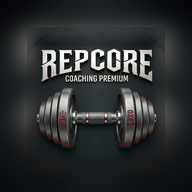
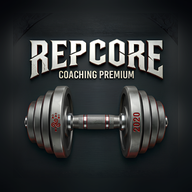
fix(pwa): icone launcher agrandie au maximum de la zone sure
- Contenu passe de 72% a 86% (maskable) / 92% (any) : REPCORE et
  l'haltere remplissent l'icone, calcules pour frotter la limite du
  masque cercle sans jamais etre rognes
- Bump cache SW v301

Changed region(s): [[0.0938, 0.125, 0.9062, 0.8125], [0.375, 0.125, 0.4062, 0.1562]]

diff --git a/sw.js b/sw.js
@@ -1,4 +1,4 @@
-const CACHE = 'repcore-v300';
+const CACHE = 'repcore-v301';
 const SW_DATA = 'repcore-sw-data'; // persistent across updates — not wiped by activate
 const ASSETS = ['./manifest.json', './icons/icon-192x192.png', './icons/icon-512x512.png', './icons/logo.png', './data/ciqual.json'];
 
